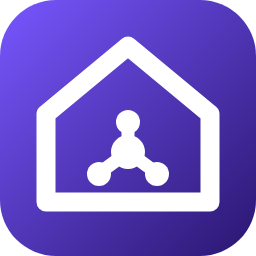
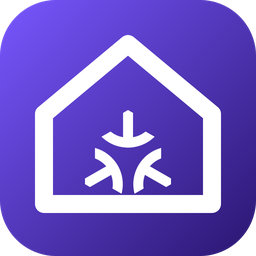
feat(branding): put the official Matter symbol inside the Indigo house
Replaces the hand-drawn mesh with the actual Matter symbol, so the icon reads as
"Matter, inside Indigo" rather than as a generic connectivity motif.

The symbol is taken verbatim from the upstream lockup on Wikimedia Commons
rather than redrawn — a redrawn mark would be subtly wrong, which is worse than
not using one. Sized at 86 design units: 100 crowds the house walls, 74 leaves
the symbol looking lost.

Sources and a build script live in docs/branding/ so the icon can be adjusted
without redrawing anything, and the PNG is not a mystery binary:

    python3 docs/branding/build-icon.py

The rebuild is deterministic — it reproduces the committed PNG byte for byte
(verified by md5). A raster step is unavoidable because the upstream file is a
single path holding both the wordmark and the symbol, so the symbol cannot be
selected by path index; it is isolated positionally and alpha-keyed instead.

docs/branding/README.md records provenance and rights: Wikimedia holds the file
as public domain for copyright (below the threshold of originality) but with the
standard trademark notice. Copyright and trademark are separate questions —
Matter's marks are CSA certification marks and this plugin is not certified, so
the README states plainly that this is an independent, unofficial integration
with no affiliation or endorsement.

Claude-Session: https://claude.ai/code/session_01BzVfnbsayjKCWQaYhD83qU

diff --git a/docs/branding/build-icon.py b/docs/branding/build-icon.py
@@ -1,0 +1,98 @@
+#!/usr/bin/env python3
+"""Regenerate Contents/Resources/icon.png from the two sources in this folder.
+
+    python3 docs/branding/build-icon.py
+
+Composites the official Matter symbol (cropped out of the upstream lockup,
+recoloured white) inside the Indigo house frame, then downsamples to the 256x256
+the Plugin Store wants. Rendering needs Chrome (headless) and Pillow.
+
+Kept as a script rather than a hand-edited PNG so the icon can be adjusted —
+symbol size, placement, house colours — without redrawing anything.
+"""
+import os
+import subprocess
+import sys
+
+from PIL import Image
+
+HERE = os.path.dirname(os.path.abspath(__file__))
+REPO = os.path.dirname(os.path.dirname(HERE))
+OUT = os.path.join(REPO, "indigo-matter.indigoPlugin", "Contents", "Resources", "icon.png")
+CHROME = "/Applications/Google Chrome.app/Contents/MacOS/Google Chrome"
+
+# Design units are the icon's 256x256 viewBox; RENDER is the supersample factor.
+RENDER = 1024
+SCALE = RENDER / 256.0
+SYMBOL_WIDTH = 86   # design units — 100 crowds the walls, 74 looks lost
+SYMBOL_CX, SYMBOL_CY = 128, 152
+
+
+def _shot(svg, png, w, h):
+    subprocess.run(
+        [CHROME, "--headless", "--disable-gpu", "--no-sandbox", "--hide-scrollbars",
+         "--force-device-scale-factor=1", f"--window-size={w},{h}",
+         "--default-background-color=00000000", f"--screenshot={png}", f"file://{svg}"],
+        check=True, capture_output=True,
+    )
+
+
+def _white_symbol(lockup_png):
+    """Crop the symbol out of the upstream lockup and recolour it white.
+
+    The upstream file is one path holding both the wordmark and the symbol, so
+    the symbol cannot be separated by path index — it is isolated positionally
+    (it sits left of the wordmark) and then alpha-keyed off its darkness.
+    """
+    left = Image.open(lockup_png).convert("RGBA").crop((0, 0, 520, 344))
+    px = left.load()
+    xs, ys = [], []
+    for y in range(left.height):
+        for x in range(left.width):
+            r, g, b, a = px[x, y]
+            if a > 40 and r < 120 and g < 120 and b < 120:
+                xs.append(x)
+                ys.append(y)
+    if not xs:
+        sys.exit("could not find the symbol in the upstream lockup")
+    sym = left.crop((min(xs), min(ys), max(xs) + 1, max(ys) + 1))
+    out = Image.new("RGBA", sym.size, (255, 255, 255, 0))
+    s, o = sym.load(), out.load()
+    for y in range(sym.height):
+        for x in range(sym.width):
+            r, g, b, a = s[x, y]
+            if a:
+                alpha = int(a * (1.0 - (r + g + b) / 3 / 255.0))
+                if alpha:
+                    o[x, y] = (255, 255, 255, alpha)
+    return out
+
+
+def main():
+    tmp = os.path.join(HERE, ".build")
+    os.makedirs(tmp, exist_ok=True)
+    house_png = os.path.join(tmp, "house.png")
+    lock_html = os.path.join(tmp, "lockup.html")
+    lock_png = os.path.join(tmp, "lockup.png")
+
+    _shot(os.path.join(HERE, "icon-house.svg"), house_png, RENDER, RENDER)
+    with open(lock_html, "w") as fh:
+        fh.write('<body style="margin:0;background:#fff">'
+                 '<div style="width:1600px;height:344px;display:flex;'
+                 'align-items:center;justify-content:center">'
+                 f'<img src="{os.path.join(HERE, "matter-logo-upstream.svg")}" style="width:1560px">'
+                 "</div></body>")
+    _shot(lock_html, lock_png, 1600, 344)
+
+    house = Image.open(house_png).convert("RGBA")
+    sym = _white_symbol(lock_png)
+    w = int(SYMBOL_WIDTH * SCALE)
+    h = int(sym.height * (w / sym.width))
+    house.alpha_composite(sym.resize((w, h), Image.LANCZOS),
+                          (int(SYMBOL_CX * SCALE - w / 2), int(SYMBOL_CY * SCALE - h / 2)))
+    house.resize((256, 256), Image.LANCZOS).save(OUT)
+    print(f"wrote {OUT} (256x256)")
+
+
+if __name__ == "__main__":
+    main()

diff --git a/docs/branding/README.md b/docs/branding/README.md
@@ -1,0 +1,57 @@
+# Branding
+
+Sources for the Plugin Store icon (`indigo-matter.indigoPlugin/Contents/Resources/icon.png`).
+
+## What the icon is
+
+An Indigo-purple house — the platform — framing the **Matter** symbol: Matter, inside Indigo.
+
+## Files
+
+| file | what it is |
+|---|---|
+| `icon-house.svg` | the house frame, hand-drawn for this plugin |
+| `matter-logo-upstream.svg` | the official Matter lockup, fetched verbatim (see below) |
+| `build-icon.py` | composites the two and writes `Contents/Resources/icon.png` |
+
+Rebuild after changing either source:
+
+```sh
+python3 docs/branding/build-icon.py
+```
+
+Needs Chrome (headless) for rendering and Pillow for compositing. The script is
+deterministic — an unchanged input reproduces an identical PNG.
+
+The upstream file is a single path containing *both* the wordmark and the symbol,
+so the symbol cannot be selected by path index. `build-icon.py` isolates it
+positionally (it sits left of the wordmark) and alpha-keys it off its darkness.
+That is why a raster step exists at all.
+
+## Store requirements
+
+Per the Indigo Plugin Developer's Guide: the file must be `Contents/Resources/icon.png`,
+optimally 256 × 256, and at least 128px high. Without it the store shows Indigo's
+generic plugin icon.
+
+## Provenance and rights
+
+`matter-logo-upstream.svg` is the Matter logo as published on Wikimedia Commons:
+<https://commons.wikimedia.org/wiki/File:Logo_of_Matter_connectivity_standard.svg>
+
+Wikimedia holds it as **public domain for copyright purposes** — "This logo image
+consists only of simple geometric shapes or text. It does not meet the threshold of
+originality needed for copyright protection" — while carrying the standard trademark
+notice: "This work includes material that may be protected as a trademark in some
+jurisdictions."
+
+Copyright and trademark are separate questions. Matter's logo and wordmark are
+**certification marks** administered by the Connectivity Standards Alliance, and
+this plugin is **not** CSA-certified (see the PRD's non-goals: no certification,
+test attestation certificate). For contrast, Home Assistant may display Matter
+branding because it holds two CSA certifications — Home Assistant as a certified
+user interface component and the Open Home Foundation Matter Server as a certified
+software component.
+
+This plugin is an independent, unofficial integration with no affiliation to, or
+endorsement by, the Connectivity Standards Alliance.
